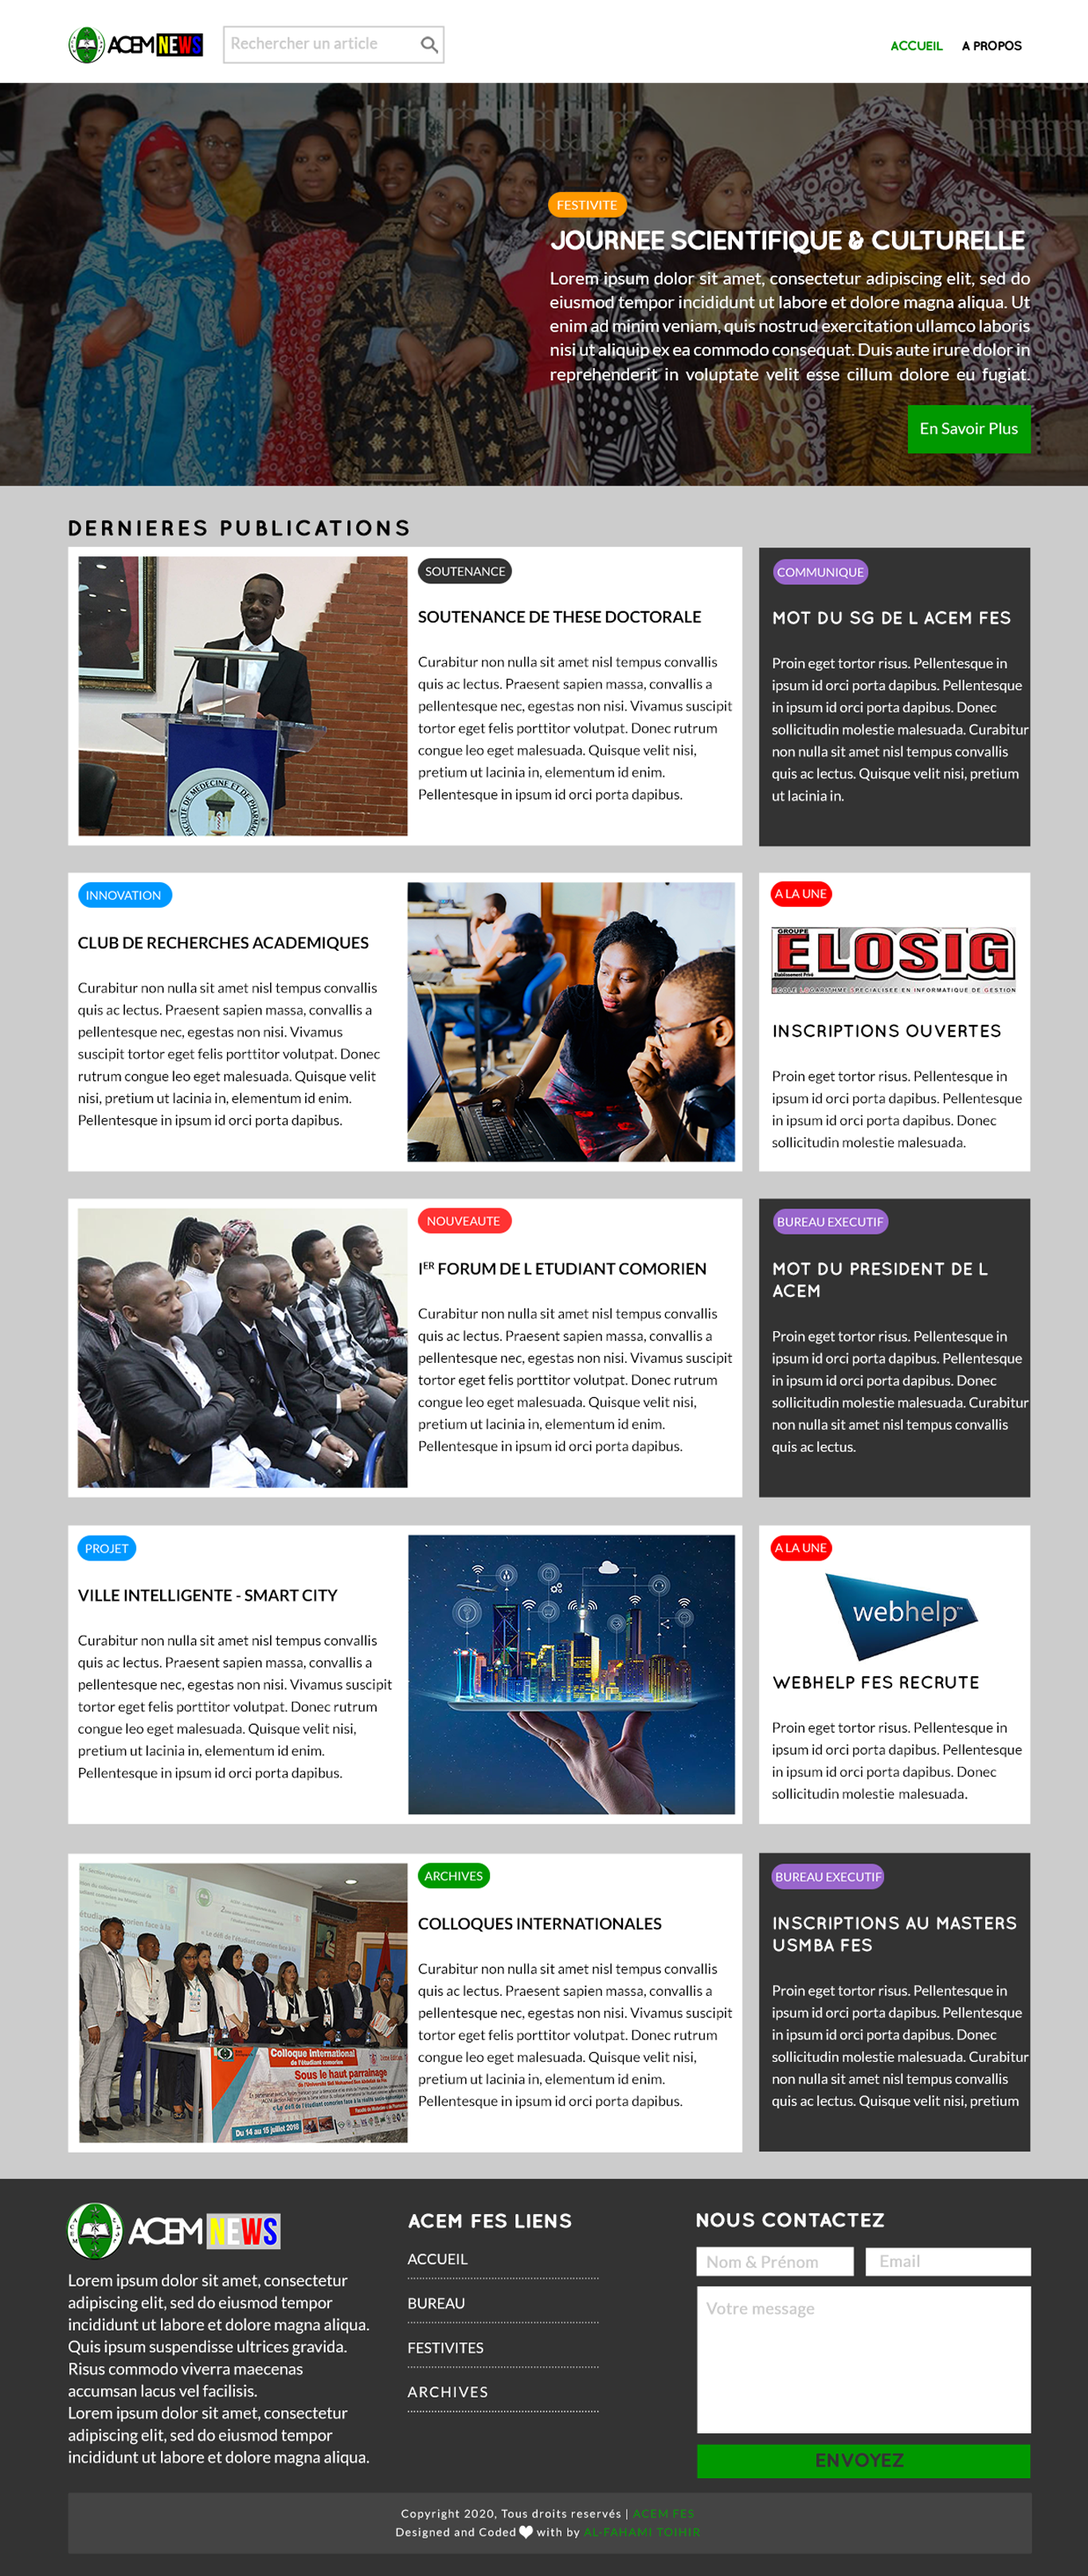
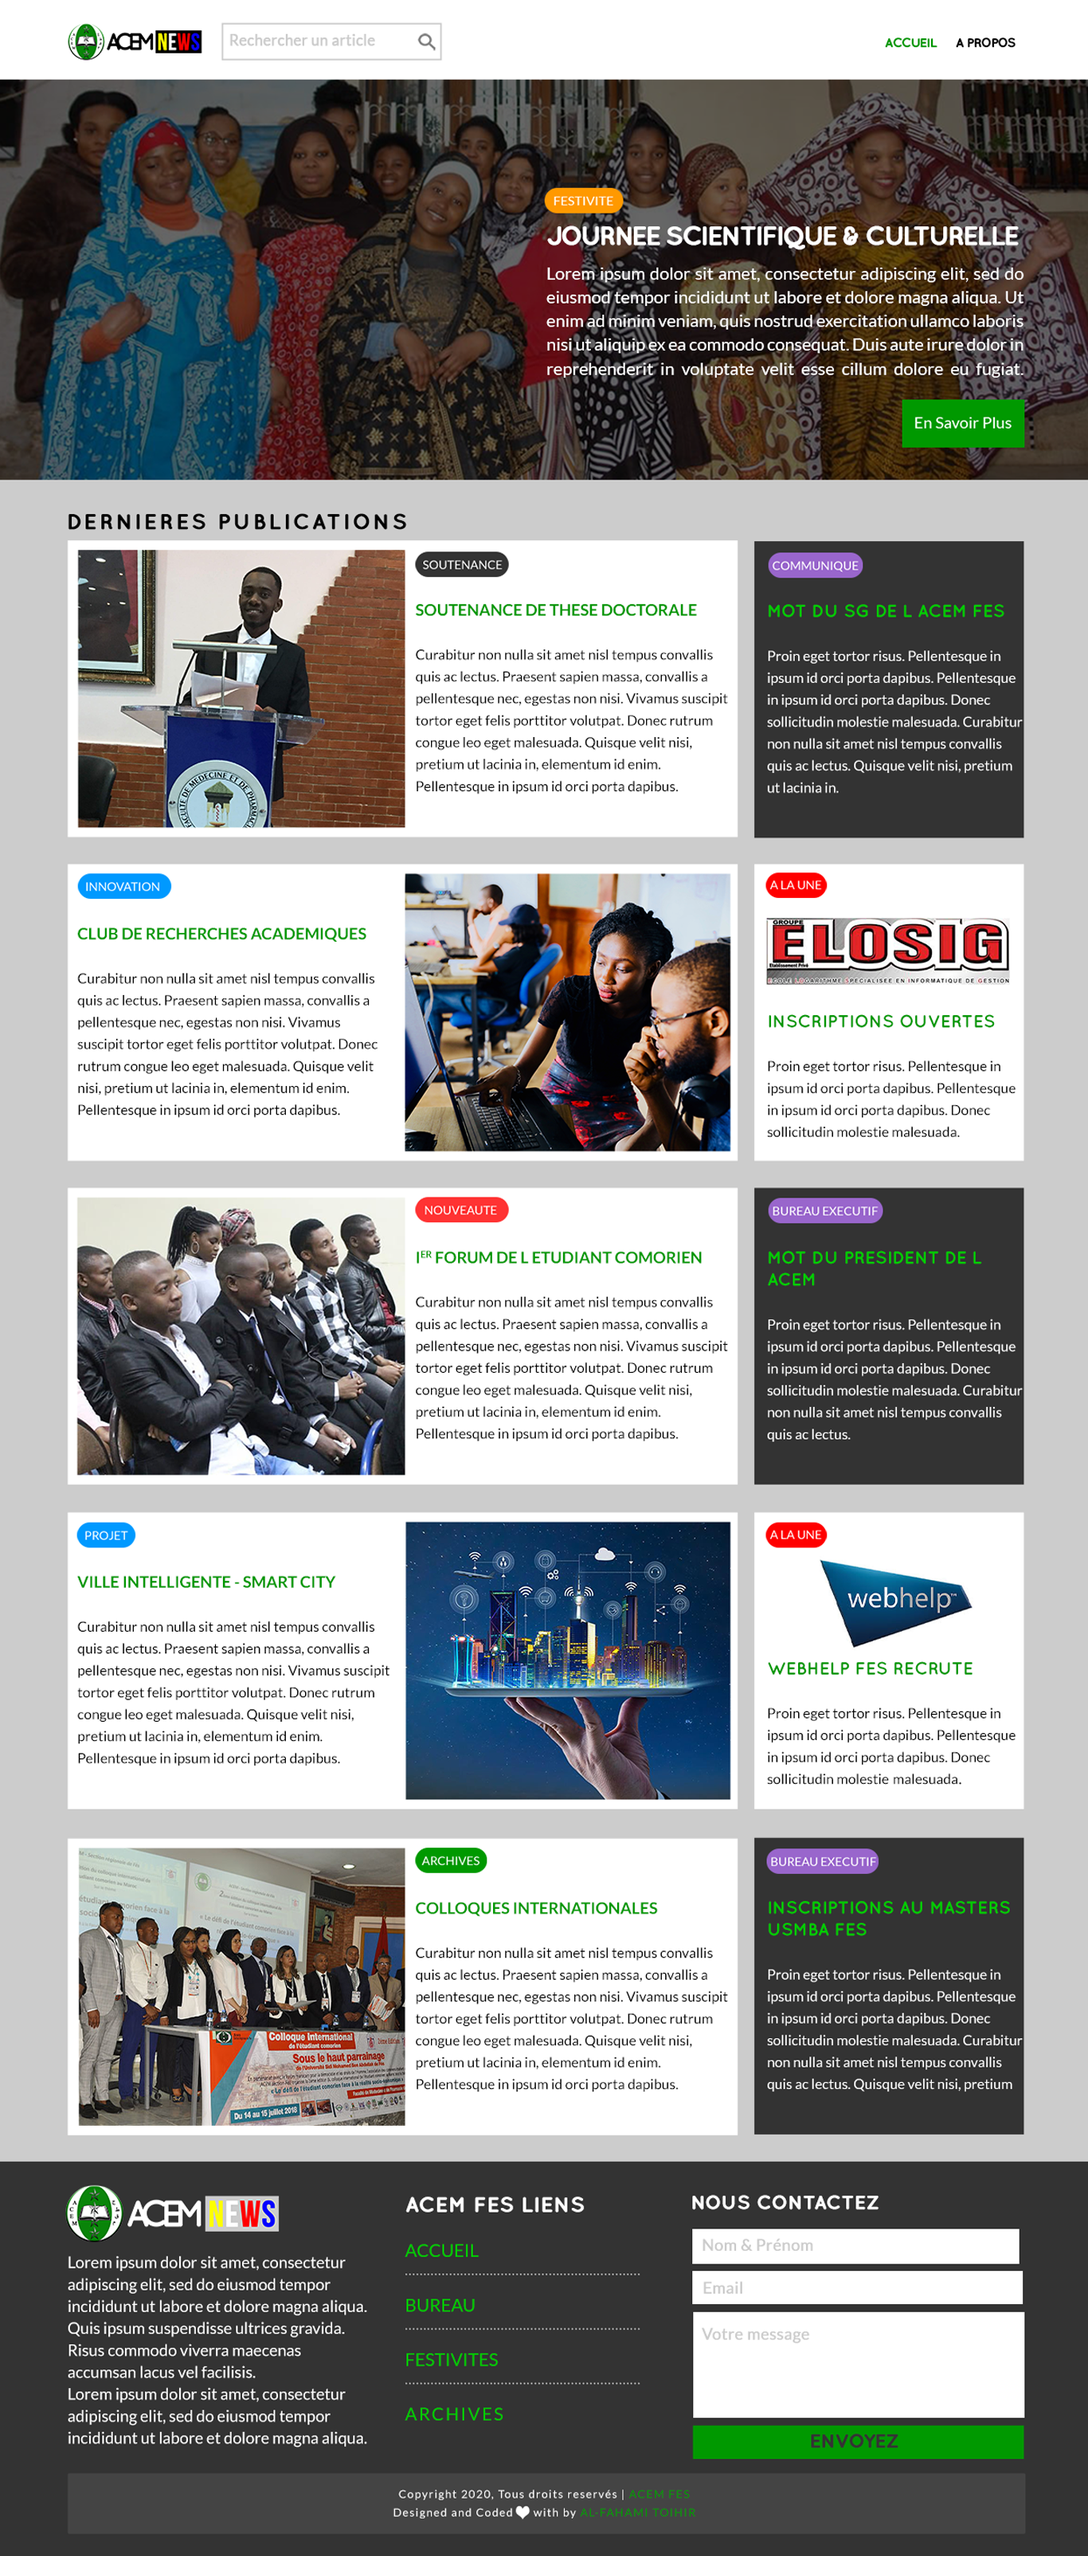
small changes

diff --git a/assets/css/style.css b/assets/css/style.css
@@ -87,6 +87,7 @@
     display: inline-block;
     width: auto;
     color: #fff;
+    font-family: "Quicksand", sans-serif;
     background: #333;
     padding: 0.75rem;
     cursor: pointer;
@@ -95,7 +96,7 @@
 
   .btn-primary { 
     background: var(--primary-color);
-    transition: all 0.4s ease-in-out;
+    transition: all 0.5s ease-in-out;
     color: var(--light-color);
    }
 
@@ -103,6 +104,7 @@
     background: var(--secondary-color); 
     border: none;
     box-shadow: rgba(0, 0, 0, 0.6);
+    text-shadow: 0.1rem 0.1rem 0.18rem #333;
   }
 
   .py-1 { padding: 0.75rem 0; }
@@ -416,9 +418,15 @@ textarea::placeholder {
 }
 
 #main-footer .container form#contact-form input[type="submit"] {
-  color: var(--light-color);
+  color: var(--dark-color);
+  font-size: 0.9rem;
   font-weight: 700;
+  font-family: "Quicksand", sans-serif;
   border: none;
+}
+
+#main-footer .container form#contact-form input[type="submit"]:hover {
+  color: #f4f4f4;
 }
 
 #main-footer .container .author-copyright {
